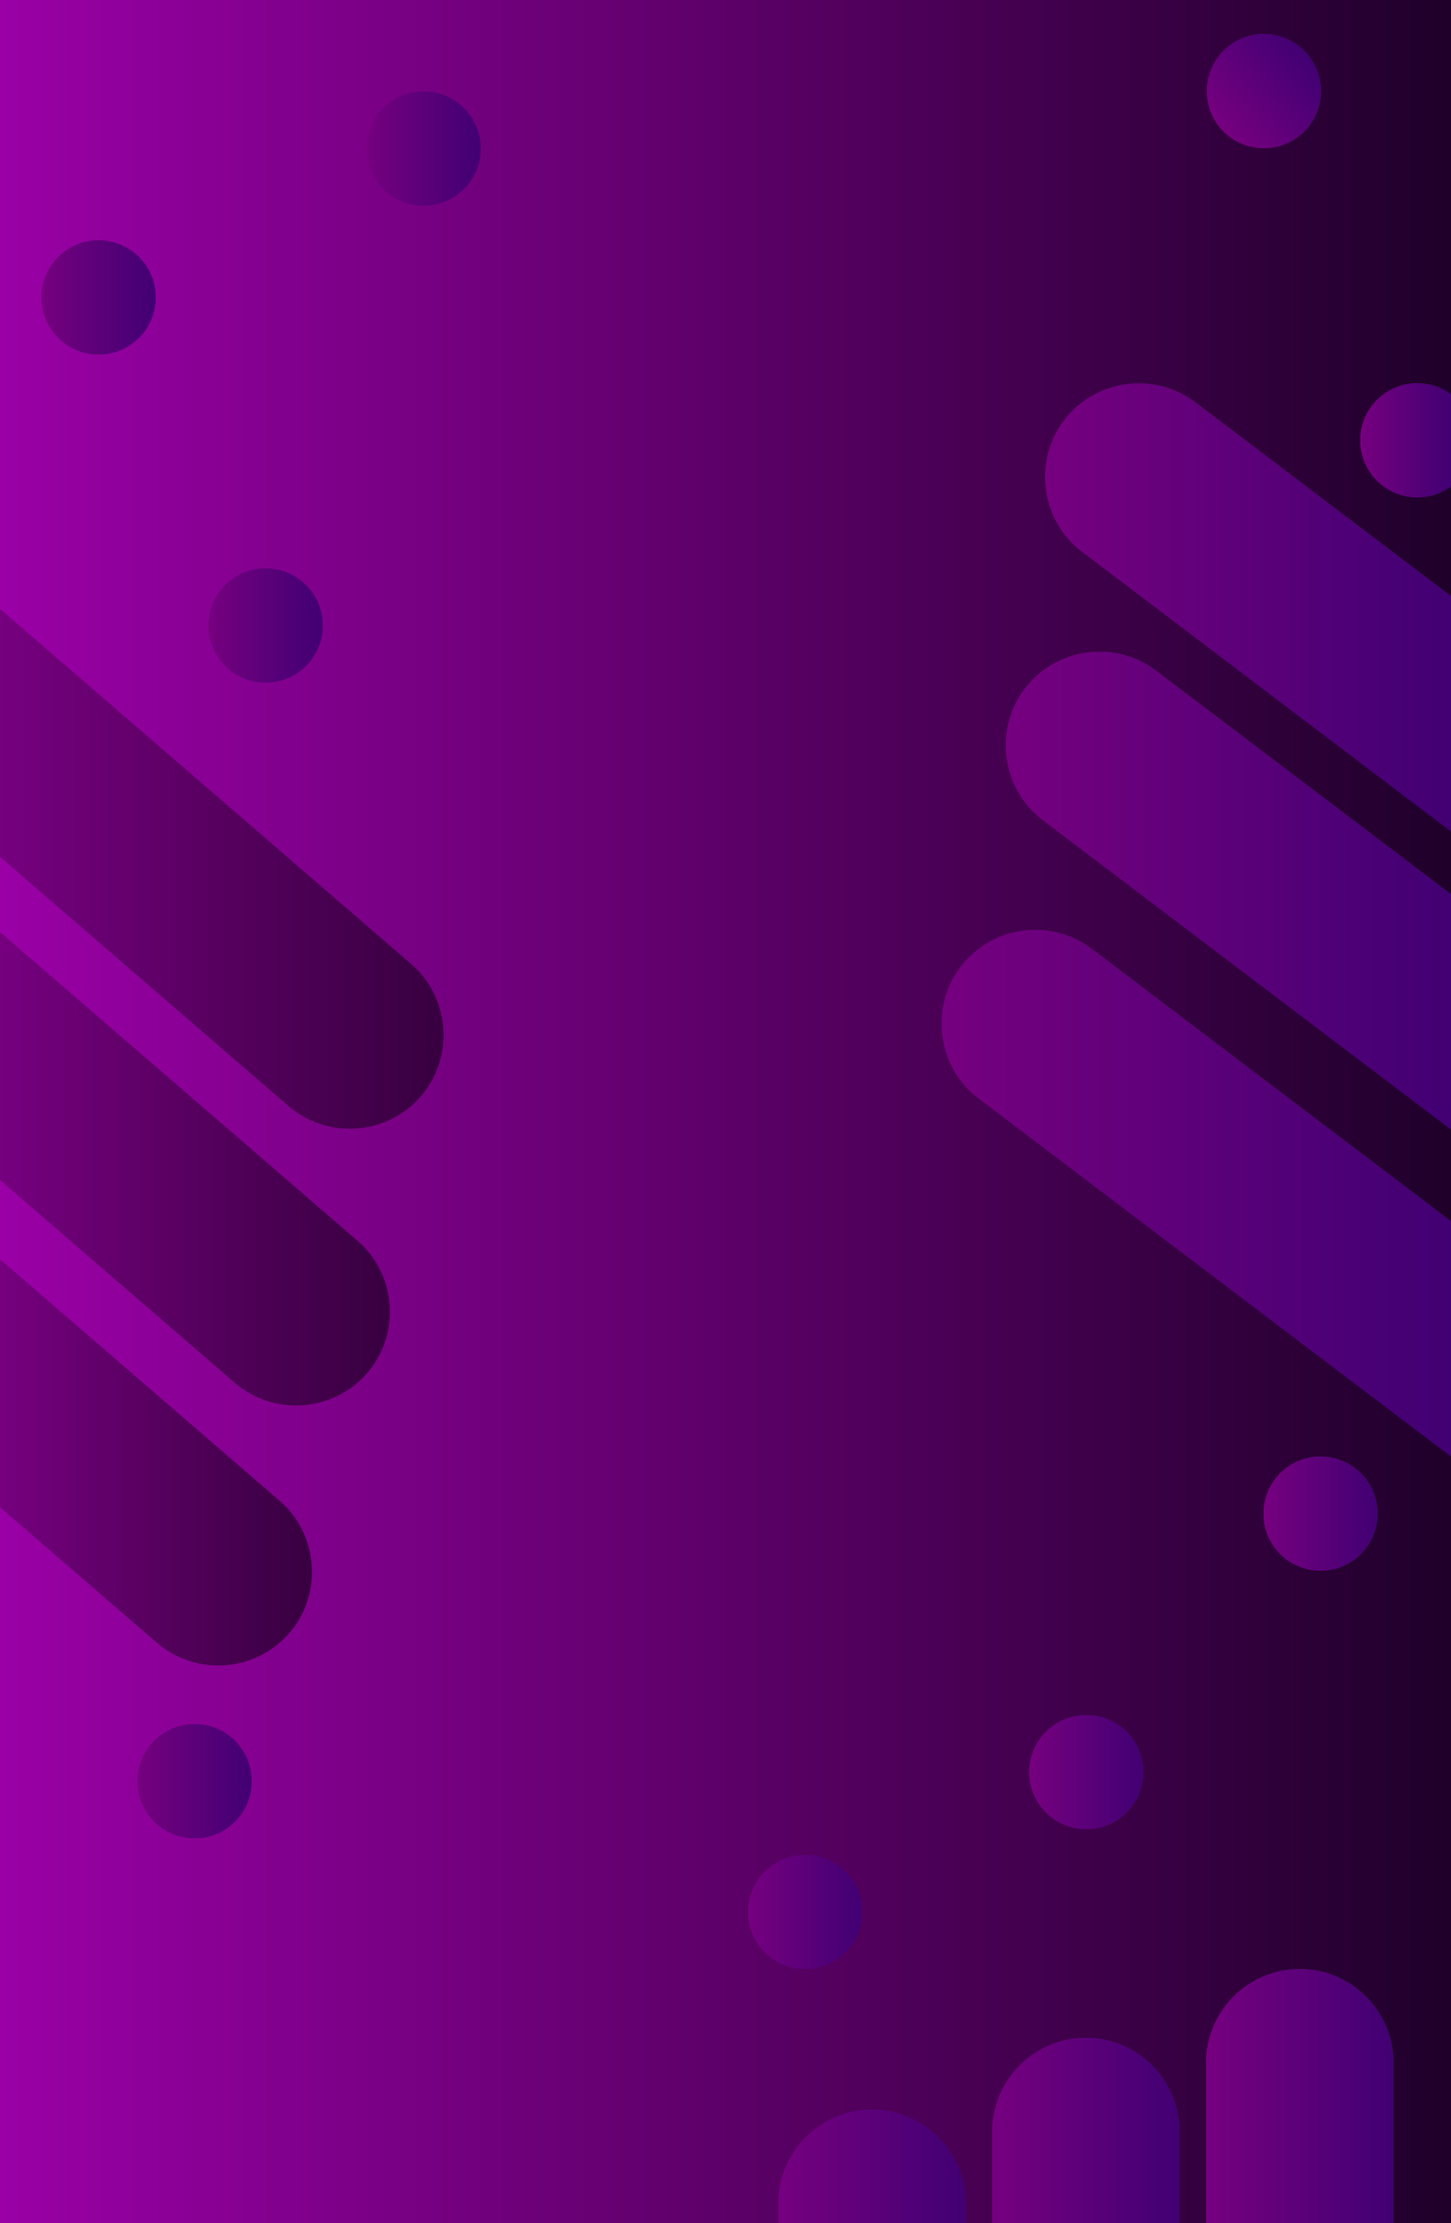
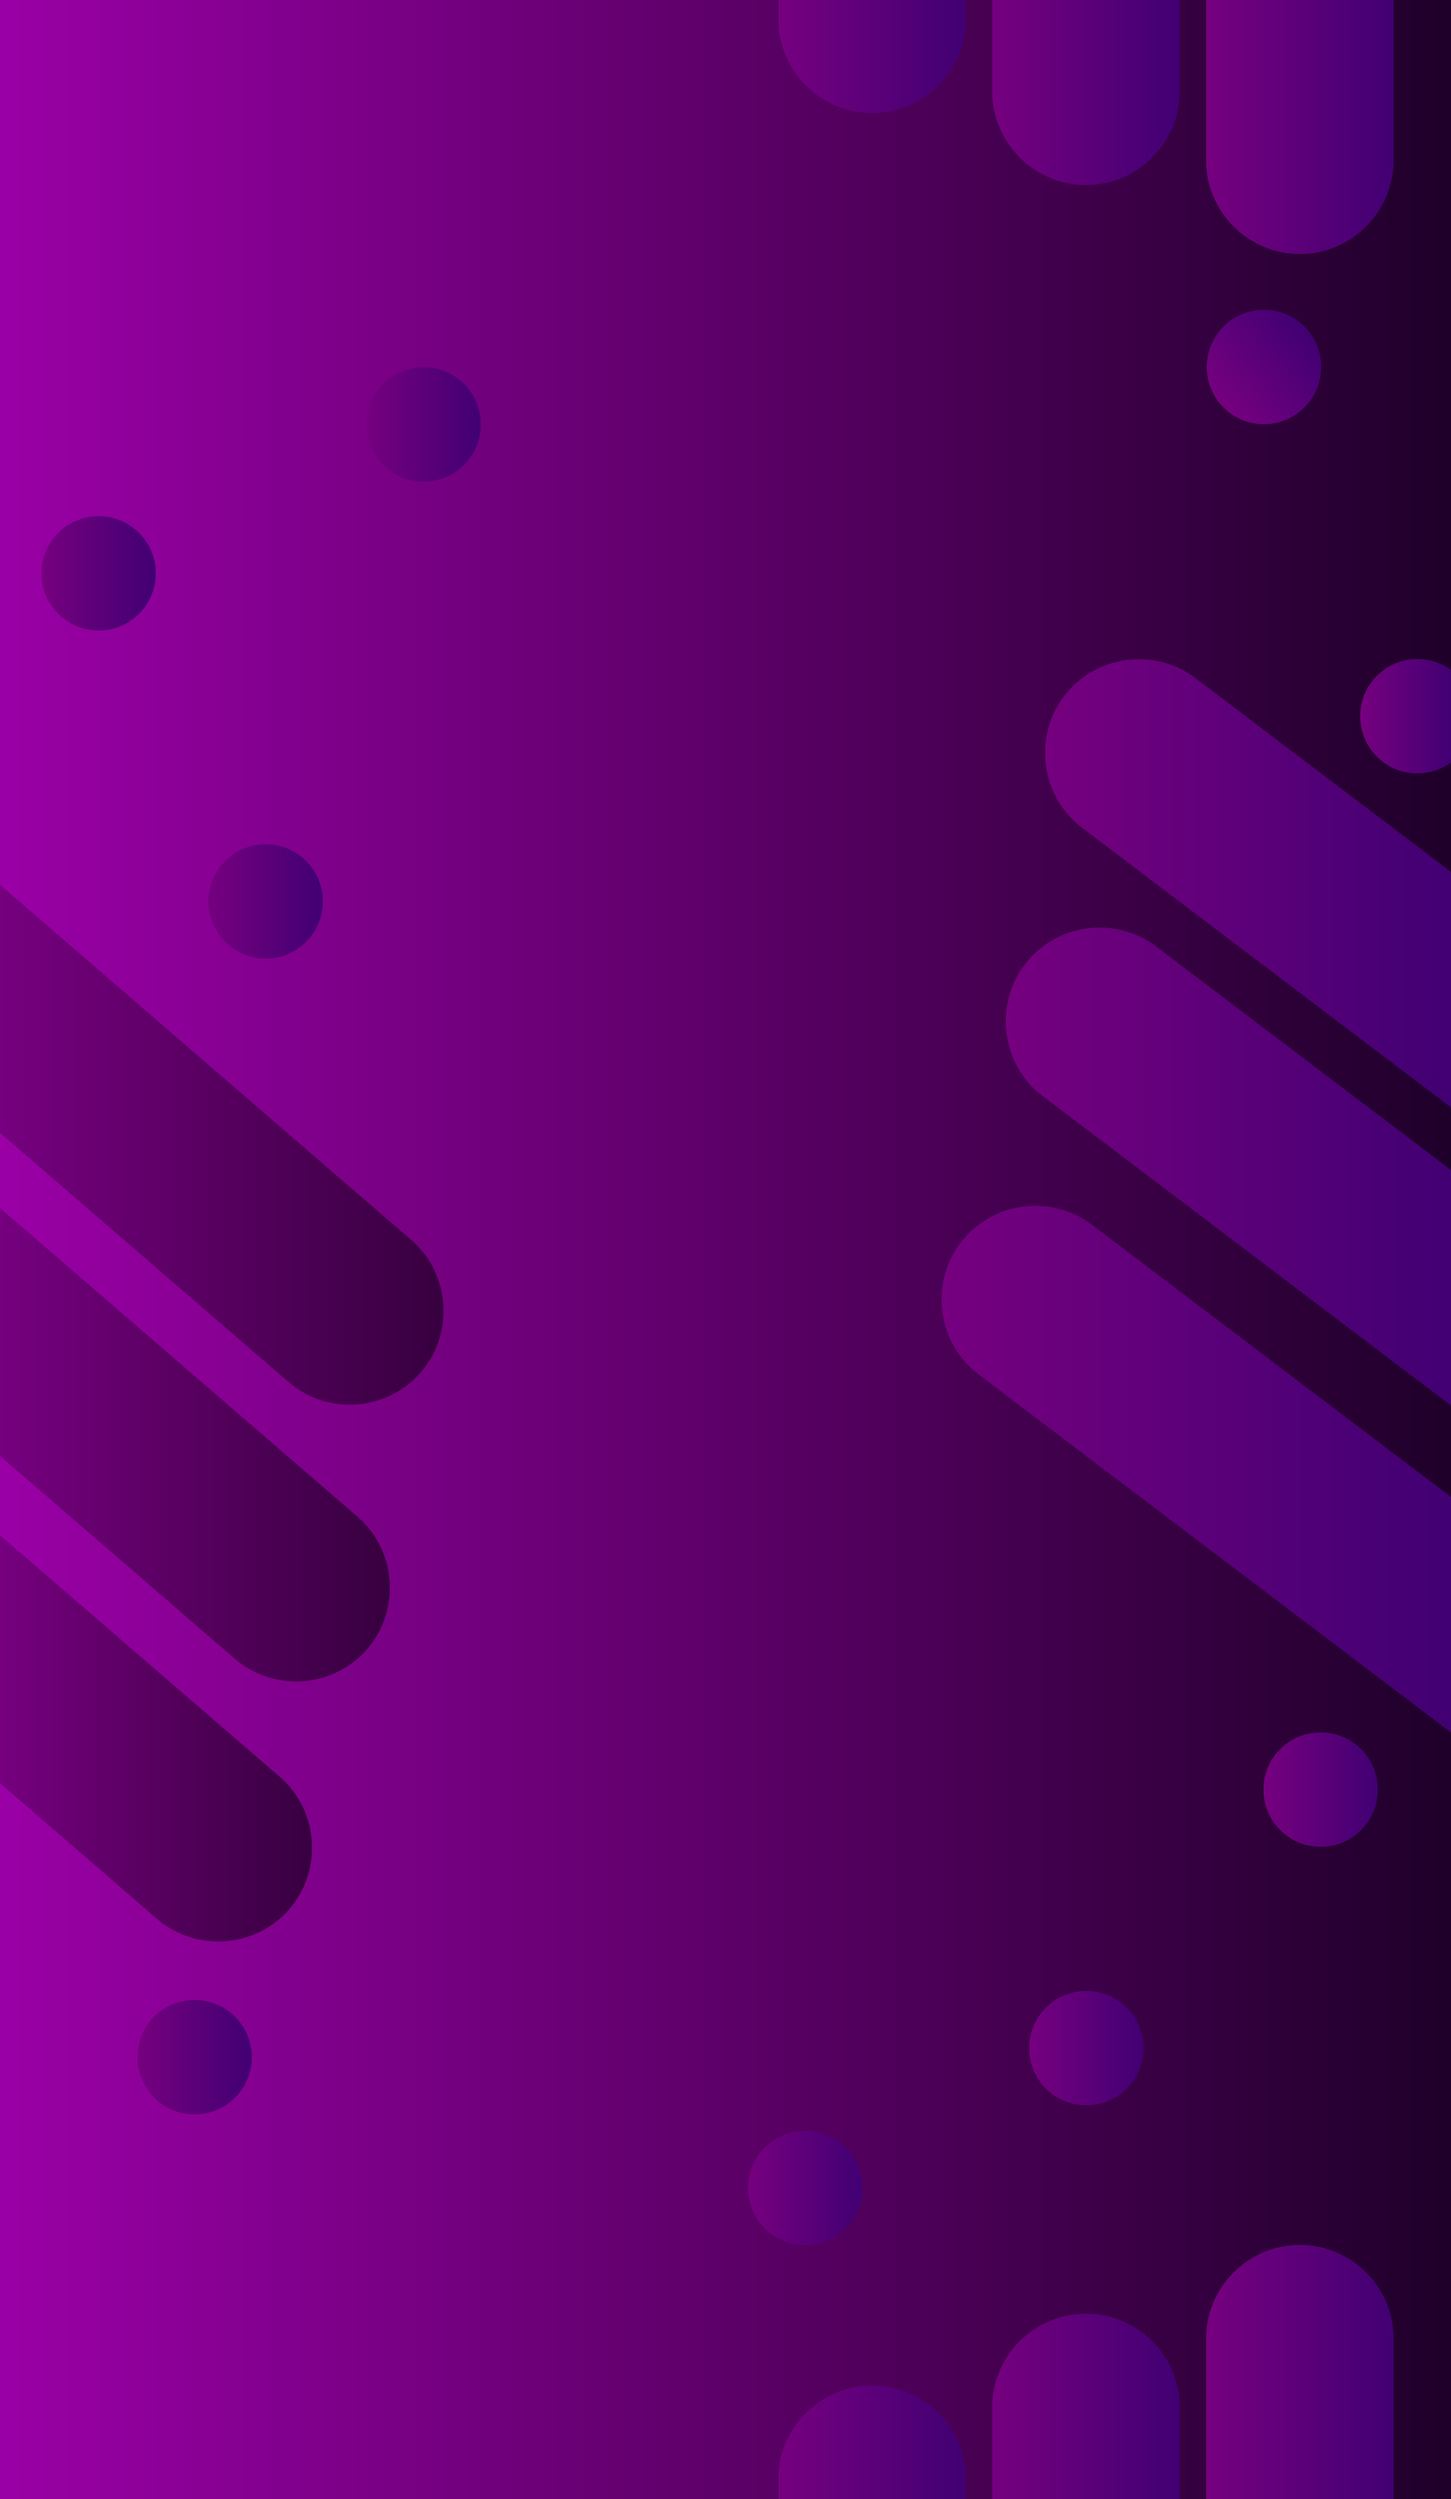
fixed backgound repetition

diff --git a/css/stylesheet.css b/css/stylesheet.css
@@ -6,7 +6,7 @@ body {
     padding: 0;
     height: 100vh;
     background-image: url("../assets/images/background.png");
-    background-repeat: no-repeat;
+    background-repeat: repeat-y;
     background-size: cover;
     background-attachment: scroll;
     background-color: #8B0097;
